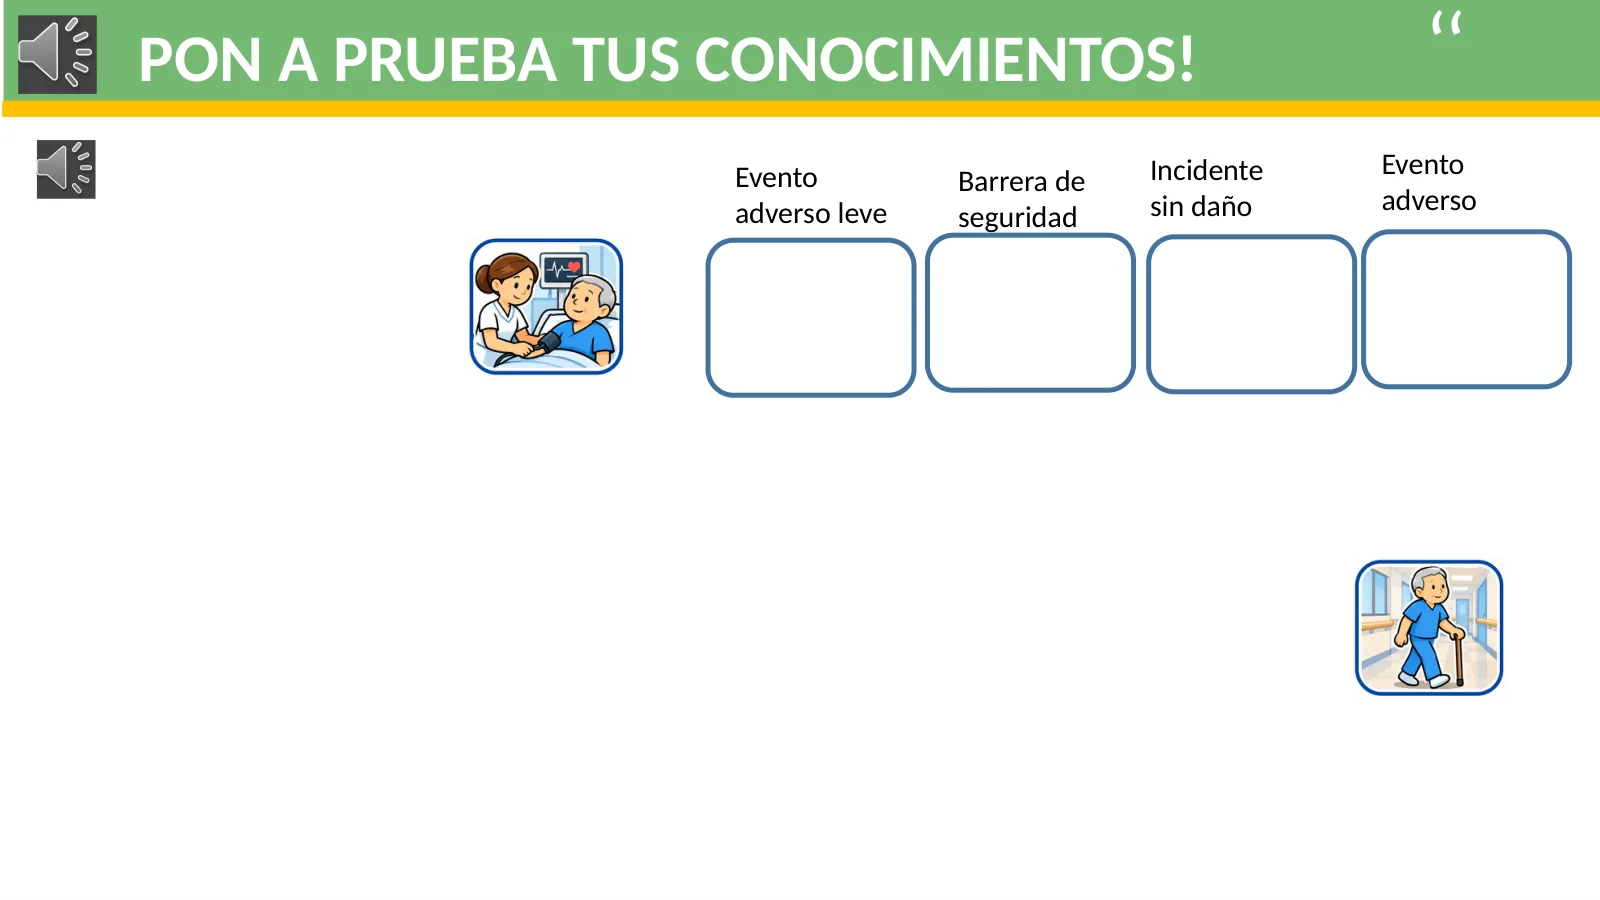
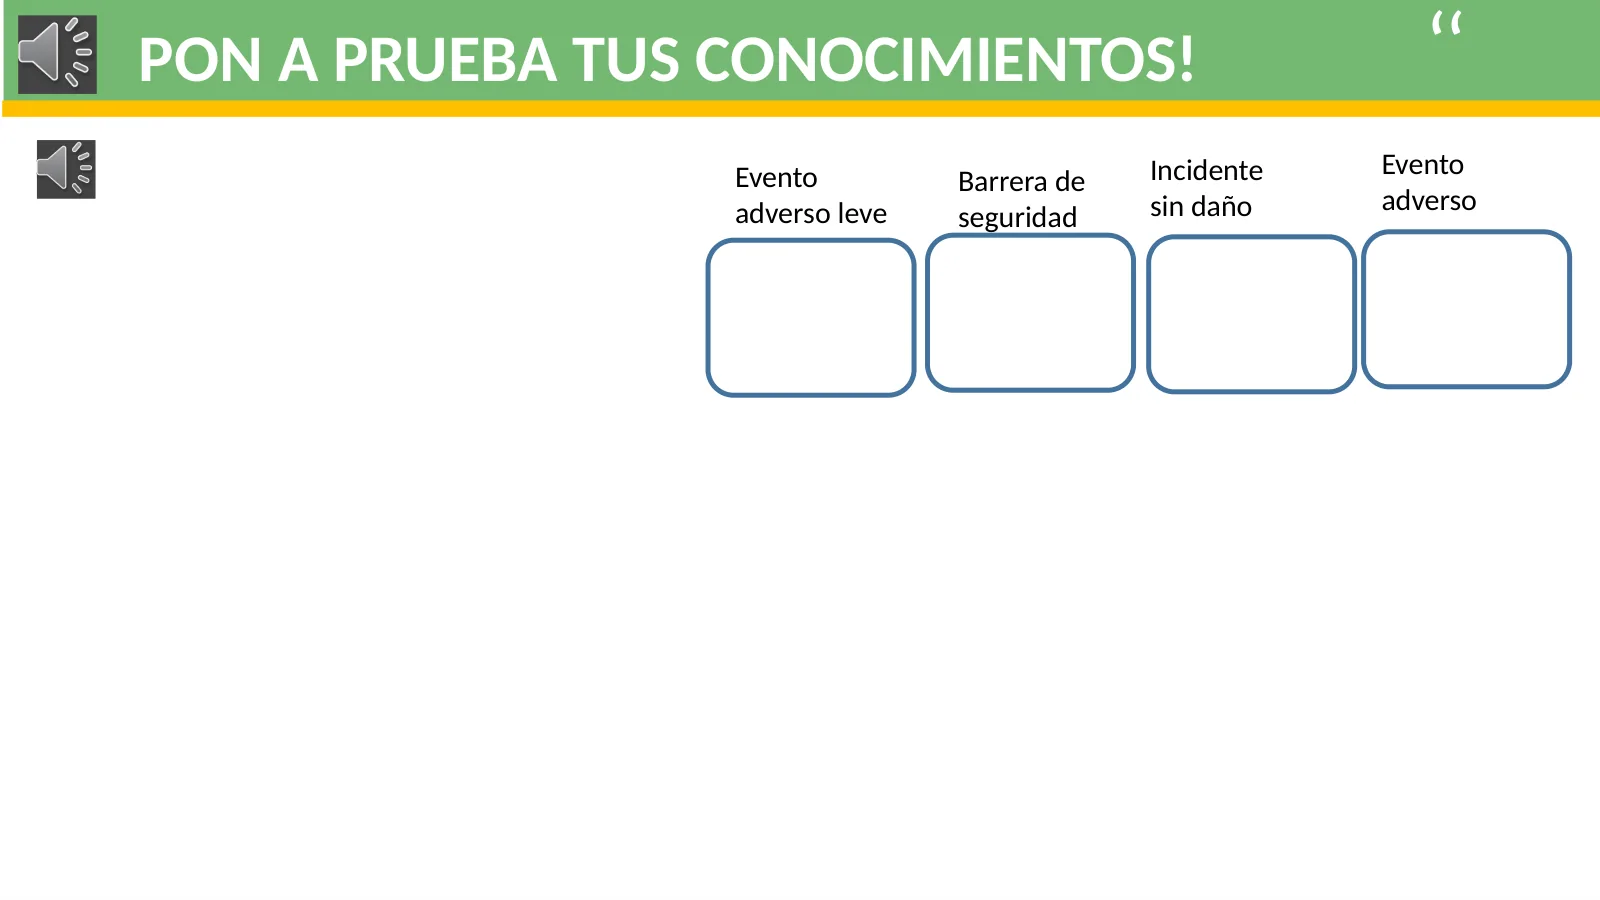
feat: las actividades de las presentaciones bloquean el avance hasta resolverse; íconos sin animación del módulo 0 (diapositiva 12) ahora se pueden pulsar
- presentaciones.js/css: en las diapositivas con actividad (retos de selección y
  unir/arrastrar) el botón Siguiente queda deshabilitado con el aviso "Resuelve la
  actividad para continuar."; la flecha derecha, PageDown y Fin respetan el bloqueo
  (Fin salta hasta la primera actividad pendiente). Una actividad resuelta no se
  vuelve a exigir al regresar. Si se acaba el tiempo solo aparece Repetir.
- generar.py: las imágenes sin desencadenador con el tamaño de los demás íconos de un
  juego de arrastrar se toman como piezas incorrectas (se sacuden). Antes quedaban en
  el fondo de la diapositiva 12 del módulo 0 y no se podían pulsar.
- Regenerados d12.webp y presentacion.json del módulo 0; nuevos e12-63 y e12-69.

Changed region(s): [[0.2812, 0.2489, 0.4062, 0.4356], [0.8438, 0.6222, 0.9375, 0.7778]]

diff --git a/app-plataforma/presentaciones/presentaciones.js b/app-plataforma/presentaciones/presentaciones.js
@@ -17,9 +17,10 @@
   var catalogo = null;   // promesa del catálogo
   var datos = {};        // id -> promesa de presentacion.json
 
-  var dlg, escenario, fondo, capa, sr, vivo, hTitulo, hContador, bAnt, bSig, bSonido, bPantalla;
+  var dlg, escenario, fondo, capa, sr, vivo, hTitulo, hContador, hNota, bAnt, bSig, bSonido, bPantalla;
   var pres = null;       // presentación abierta
   var indice = 0;
+  var resueltas = {};    // diapositivas con actividad ya resuelta en esta apertura (índice -> true)
   var sonido = true;
   var reloj = null;      // intervalo del cronómetro
   var audios = [];       // audios en reproducción
@@ -103,10 +104,12 @@
     bAnt = h('button', { type: 'button', class: 'pi-nav', text: '← Anterior' });
     bSig = h('button', { type: 'button', class: 'pi-nav', text: 'Siguiente →' });
     hContador = h('span', { class: 'pi-contador', 'aria-live': 'polite' });
+    hNota = h('p', { class: 'pi-nota', hidden: '' });
     dlg = h('dialog', { class: 'pi', 'aria-labelledby': 'pi-titulo' }, [
       h('div', { class: 'pi-barra' }, [hTitulo, bSonido, bPantalla, bCerrar]),
       h('div', { class: 'pi-cuerpo' }, [escenario]),
       h('div', { class: 'pi-pie' }, [bAnt, hContador, bSig]),
+      hNota,
       vivo
     ]);
     document.body.append(dlg);
@@ -160,6 +163,7 @@
     origenFoco = desde || document.activeElement;
     datos[id].then(function (p) {
       pres = p;
+      resueltas = {};
       hTitulo.textContent = p.titulo;
       escenario.style.setProperty('--pi-prop', p.proporcion || 16 / 9);
       if (!dlg.open) dlg.showModal();
@@ -190,6 +194,13 @@
     if (!pres) return;
     var total = pres.diapositivas.length;
     if (n < 0 || n >= total || (n === indice && !forzar)) return;
+    // No se avanza más allá de una actividad sin resolver (ni con teclado ni con Fin).
+    if (n > indice) {
+      for (var k = indice; k < n; k++) {
+        if (pendiente(k)) { n = k; break; }
+      }
+      if (n === indice && !forzar) { anunciar('Resuelve la actividad para continuar.'); return; }
+    }
     indice = n;
     limpiarDiapositiva();
     var d = pres.diapositivas[n];
@@ -197,7 +208,7 @@
     sr.textContent = 'Diapositiva ' + (n + 1) + '. ' + (d.texto || '');
     hContador.textContent = 'Diapositiva ' + (n + 1) + ' de ' + total;
     bAnt.disabled = n === 0;
-    bSig.disabled = n === total - 1;
+    actualizarNav();
     escenario.classList.remove('pi-entra');
     void escenario.offsetWidth; // reinicia la animación de entrada
     escenario.classList.add('pi-entra');
@@ -206,6 +217,20 @@
     // Precarga de la siguiente
     if (n + 1 < total) { var sig = new Image(); sig.src = url(pres.diapositivas[n + 1].img); }
   }
+
+  function esActividad(d) {
+    return (d.elementos || []).some(function (e) { return e.tipo === 'opcion' || e.tipo === 'mover'; });
+  }
+  function pendiente(n) { return esActividad(pres.diapositivas[n]) && !resueltas[n]; }
+
+  function actualizarNav() {
+    var bloqueada = pendiente(indice);
+    bSig.disabled = indice === pres.diapositivas.length - 1 || bloqueada;
+    hNota.hidden = !bloqueada;
+    hNota.textContent = bloqueada ? 'Resuelve la actividad para continuar.' : '';
+  }
+
+  function resolver() { resueltas[indice] = true; actualizarNav(); }
 
   function posicionar(el, e, x, y) {
     el.style.left = (x == null ? e.x : x) + '%';
@@ -264,6 +289,7 @@
       if (colocadas === piezas) {
         terminado = true;
         pararReloj();
+        resolver();
         setTimeout(function () { aviso('¡Muy bien! Completaste la actividad.', d); }, 950);
       }
     }
@@ -312,8 +338,9 @@
         b.addEventListener('click', function () {
           if (e.correcta) {
             b.classList.add('pi-ok'); marca(b, true);
+            resolver();
             capa.querySelectorAll('.pi-opcion').forEach(function (o) { o.disabled = true; });
-            anunciar('¡Correcto! ' + e.etiqueta);
+            anunciar('¡Correcto! ' + e.etiqueta + ' Ya puedes continuar.');
           } else {
             b.classList.add('pi-mal'); marca(b, false); b.disabled = true;
             anunciar('Incorrecto. Intenta de nuevo.');
@@ -363,7 +390,7 @@
       bR.addEventListener('click', function () { ir(indice, true); });
       botones.push(bR);
     }
-    if (indice < pres.diapositivas.length - 1) {
+    if (indice < pres.diapositivas.length - 1 && resueltas[indice]) {
       var bS = h('button', { type: 'button', class: 'btn btn-acento btn-sm', text: 'Continuar →' });
       bS.addEventListener('click', function () { ir(indice + 1); });
       botones.push(bS);

diff --git a/app-plataforma/presentaciones/presentaciones.css b/app-plataforma/presentaciones/presentaciones.css
@@ -106,6 +106,7 @@ dialog.pi.pi-max .pi-escenario{width:min(100%, calc((100dvh - 120px) * var(--pi-
 /* Navegación */
 .pi-pie{display:flex; align-items:center; justify-content:center; gap:14px; padding:8px 14px 12px;}
 .pi-contador{min-width:9em; color:rgba(255,255,255,.85); font-size:.9rem; text-align:center;}
+.pi-nota{margin:0; padding:0 14px 10px; text-align:center; color:#ffd9a8; font-size:.9rem;}
 .pi-nav{
   padding:8px 16px; border:0; border-radius:var(--radio-sm); background:var(--naranja); color:var(--texto);
   font:inherit; font-weight:600; cursor:pointer;

diff --git a/herramientas/presentaciones/generar.py b/herramientas/presentaciones/generar.py
@@ -279,6 +279,18 @@ def generar(mod, trabajo):
         elementos, crono, audios = interacciones(arbol, fs)
         volumenes = {a.xpath('.//p:spTgt/@spid', namespaces=NS)[0]: int(a.get('vol', 100000)) / 100000
                      for a in arbol.xpath('.//p:cMediaNode', namespaces=NS)}
+        # Íconos sin ningún desencadenador en el pptx (nadie les asignó animación): son del mismo juego, del mismo
+        # tamaño que los demás, y no corresponden a ninguna casilla, así que cuentan como respuesta incorrecta.
+        animados = [fs[e['spid']]['caja'] for e in elementos if e['tipo'] in ('mover', 'sacudir')]
+        if any(e['tipo'] == 'mover' for e in elementos) and animados:
+            alto = sorted(c[3] for c in animados)[len(animados) // 2]
+            tocados = {e['spid'] for e in elementos} | set(audios) | (set(crono['spids']) if crono else set())
+            for spid, f in fs.items():
+                if spid in tocados or not f['caja'] or local(f['el']) != 'pic' or abs(f['caja'][3] - alto) > 0.01:
+                    continue
+                if f['caja'][1] < 0.15:  # cabecera (iconos de audio)
+                    continue
+                elementos.append({'spid': spid, 'disparador': spid, 'tipo': 'sacudir'})
         # Repetidos: dos elementos iguales casi en el mismo sitio (en el pptx quedaron copias superpuestas).
         unicos = []
         for e in elementos:
